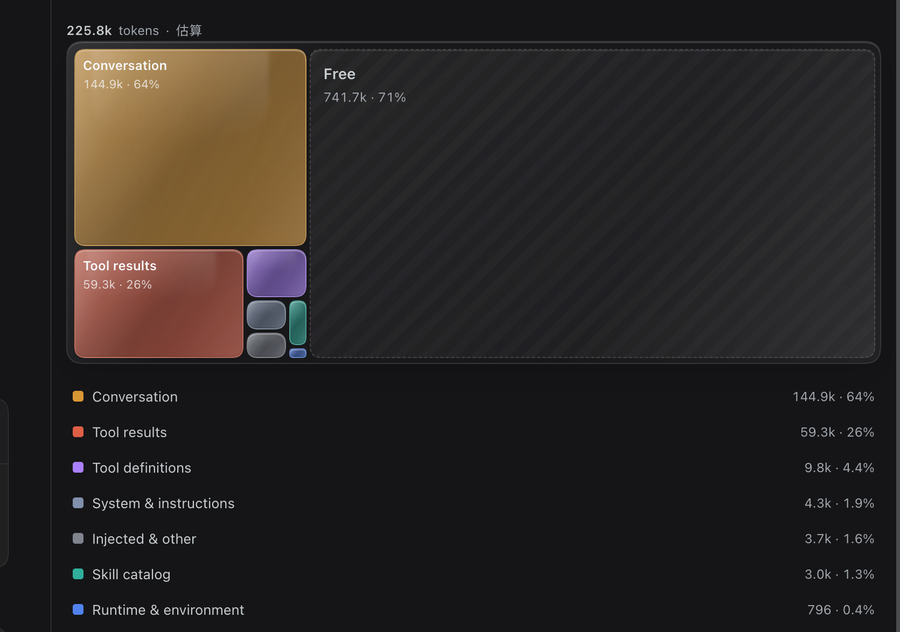
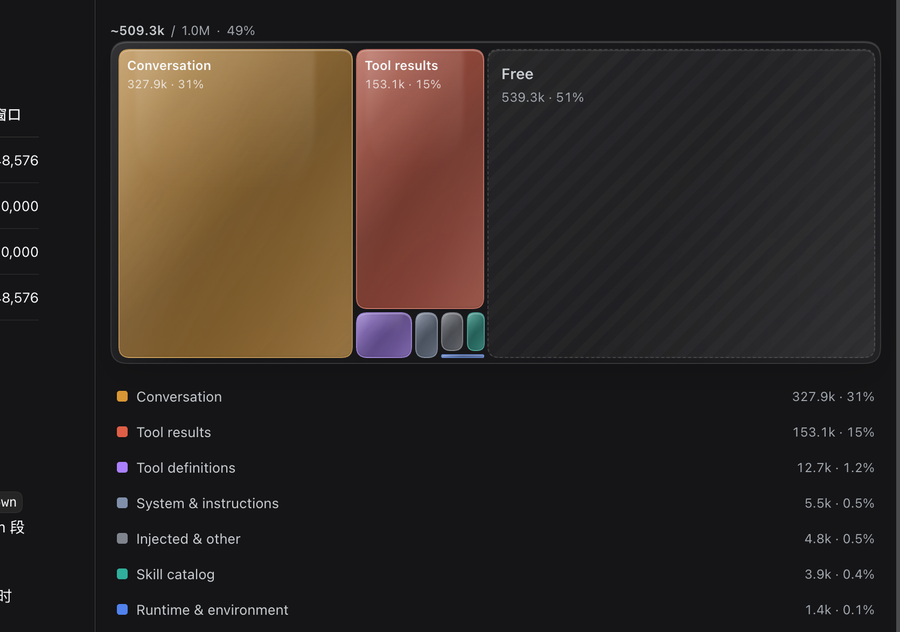
feat: align chart figures with context pressure

diff --git a/client.js b/client.js
@@ -734,7 +734,7 @@ window.__ModuleLoader__.load({
             key: item.key,
             rect,
             item,
-            share: estimatedTotal > 0 ? item.category.tokens / estimatedTotal : 0,
+            share: windowTokens > 0 ? item.category.tokens / windowTokens : 0,
             onSelectCategory,
             t,
           }),
@@ -798,19 +798,25 @@ window.__ModuleLoader__.load({
       const used = Math.min(Math.max(reportedUsed, 0), windowTokens);
       const layoutScale = used / data.totalTokens;
       const freeTokens = Math.max(windowTokens - used, 0);
+      const displayCategories = categories.map((category) => ({
+        ...category,
+        tokens: category.tokens * layoutScale,
+        children: category.children.map((child) => ({ ...child, tokens: child.tokens * layoutScale })),
+      }));
       return h(
         'div',
         null,
         h('div', { className: 'cmk-totals' },
-          h('span', null, h('b', null, formatTokens(data.totalTokens))),
-          h('span', null, translate(t, 'tokens')),
+          h('span', null, h('b', null, `~${formatTokens(used)}`)),
+          h('span', null, translate(t, 'of')),
+          h('span', null, formatTokens(windowTokens)),
           h('span', null, '·'),
-          h('span', null, translate(t, 'estimated')),
+          h('span', null, formatPercent(windowTokens > 0 ? used / windowTokens : 0)),
         ),
-        h(Mekko, { categories, layoutScale, freeTokens, windowTokens, onSelectCategory, t }),
-        h(Legend, { categories, total: data.totalTokens, onSelectCategory, t }),
+        h(Mekko, { categories: displayCategories, freeTokens, windowTokens, onSelectCategory, t }),
+        h(Legend, { categories: displayCategories, total: windowTokens, onSelectCategory, t }),
         (() => {
-          const top = categories
+          const top = displayCategories
             .flatMap((category) => category.children.map((child) => ({ child, category })))
             .filter((entry) => entry.child.tokens > 0)
             .sort((left, right) => right.child.tokens - left.child.tokens)
@@ -855,20 +861,39 @@ window.__ModuleLoader__.load({
       );
     }
 
-    function CategoryDetail({ category, data, onBack, onOpenBlock, t }) {
+    function CategoryDetail({ category, data, usedTokens, contextWindow, onBack, onOpenBlock, t }) {
       const [query, setQuery] = useState('');
       const [selectedGroupKey, setSelectedGroupKey] = useState(null);
       const [listLimit, setListLimit] = useState(MAX_LIST_ROWS);
+      const windowTokens =
+        Number.isFinite(contextWindow) && contextWindow > 0
+          ? contextWindow
+          : Number.isFinite(data.contextWindow) && data.contextWindow > 0
+            ? data.contextWindow
+            : Math.max(data.totalTokens, 1);
+      const reportedUsed = Number.isFinite(usedTokens) && usedTokens >= 0 ? usedTokens : data.totalTokens;
+      const used = Math.min(Math.max(reportedUsed, 0), windowTokens);
+      const displayScale = data.totalTokens > 0 ? used / data.totalTokens : 1;
       const groups = useMemo(() => buildGroups(category), [category]);
+      const displayGroups = useMemo(
+        () =>
+          groups.map((group) => ({
+            ...group,
+            tokens: group.tokens * displayScale,
+            children: group.children.map((child) => ({ ...child, tokens: child.tokens * displayScale })),
+          })),
+        [groups, displayScale],
+      );
       const selectedGroup =
-        selectedGroupKey === null ? undefined : groups.find((group) => group.key === selectedGroupKey);
-      const showGroups = groups.length > 1 && selectedGroup === undefined;
+        selectedGroupKey === null ? undefined : displayGroups.find((group) => group.key === selectedGroupKey);
+      const showGroups = displayGroups.length > 1 && selectedGroup === undefined;
       const activeChildren = selectedGroup
         ? selectedGroup.children
-        : groups.length === 1
-          ? groups[0].children
-          : category.children;
-      const total = selectedGroup ? selectedGroup.tokens : category.tokens;
+        : displayGroups.length === 1
+          ? displayGroups[0].children
+          : displayGroups.flatMap((group) => group.children);
+      const displayCategoryTokens = category.tokens * displayScale;
+      const total = selectedGroup ? selectedGroup.tokens : displayCategoryTokens;
       const color = CATEGORY_COLORS[category.key] ?? '#8a8f98';
 
       const children = useMemo(() => {
@@ -891,13 +916,13 @@ window.__ModuleLoader__.load({
         setListLimit(MAX_LIST_ROWS);
       }, [selectedGroupKey, query]);
       useEffect(() => {
-        if (selectedGroupKey !== null && !groups.some((group) => group.key === selectedGroupKey)) {
+        if (selectedGroupKey !== null && !displayGroups.some((group) => group.key === selectedGroupKey)) {
           setSelectedGroupKey(null);
         }
-      }, [groups, selectedGroupKey]);
+      }, [displayGroups, selectedGroupKey]);
 
       const handleBack = selectedGroup ? () => setSelectedGroupKey(null) : onBack;
-      const groupItems = groups.map((group, index) => ({
+      const groupItems = displayGroups.map((group, index) => ({
         key: group.key,
         label: groupLabel(t, group.key),
         tokens: group.tokens,
@@ -933,9 +958,11 @@ window.__ModuleLoader__.load({
               'div',
               { className: 'cmk-detailMeta' },
               selectedGroup !== undefined
-                ? `${groupLabel(t, selectedGroup.key)} · ${formatTokens(selectedGroup.tokens)}`
-                : `${formatTokens(category.tokens)} · ${formatPercent(
-                    data.totalTokens === 0 ? 0 : category.tokens / data.totalTokens,
+                ? `${groupLabel(t, selectedGroup.key)} · ${formatTokens(selectedGroup.tokens)} · ${formatPercent(
+                    displayCategoryTokens > 0 ? selectedGroup.tokens / displayCategoryTokens : 0,
+                  )}`
+                : `${formatTokens(displayCategoryTokens)} · ${formatPercent(
+                    windowTokens > 0 ? displayCategoryTokens / windowTokens : 0,
                   )}`,
             ),
           ),
@@ -1208,6 +1235,8 @@ window.__ModuleLoader__.load({
         content = h(CategoryDetail, {
           category,
           data,
+          usedTokens: used,
+          contextWindow: windowSize,
           onBack: () => setView({ kind: 'overview' }),
           onOpenBlock: (block) => openBlock(block, category),
           t,

diff --git a/README.md b/README.md
@@ -35,11 +35,18 @@ tool output, tool schema, runtime section, or skill entry:
 The chart follows the current retained model-visible surface, not the raw
 session history. **The whole chart area represents the full context window**:
 every category is one tile, laid out with a squarified treemap so tile area is
-proportional to its token share, and the neutral **Free** tile is the remaining
-space anchored to the right edge. Used area and Free follow provider-reported pressure when available
-(with category proportions taken from the estimated breakdown); otherwise they
-fall back to the estimated total. Larger tiles show their own label, token
-count, and percentage; smaller tiles keep their tooltip and legend entry.
+proportional to its share. The neutral **Free** tile is the remaining space
+anchored to the right edge.
+
+All displayed figures are normalized to the same `contextPressure` reading as
+the composer's Context meter: used tokens, window, percentages, Free, tile
+tokens, legend figures, and top contributors. The category proportions still
+come from the estimated breakdown, but they are scaled so the used total equals
+`contextPressure`; when pressure is unavailable the chart falls back to the
+estimated total. Top-level category percentages are shares of the whole window,
+so categories plus Free add to 100%. Deeper drill-down percentages are shares
+of their parent group/category. Larger tiles show their own label, token count,
+and percentage; smaller tiles keep their tooltip and legend entry.
 
 Categories:
 
